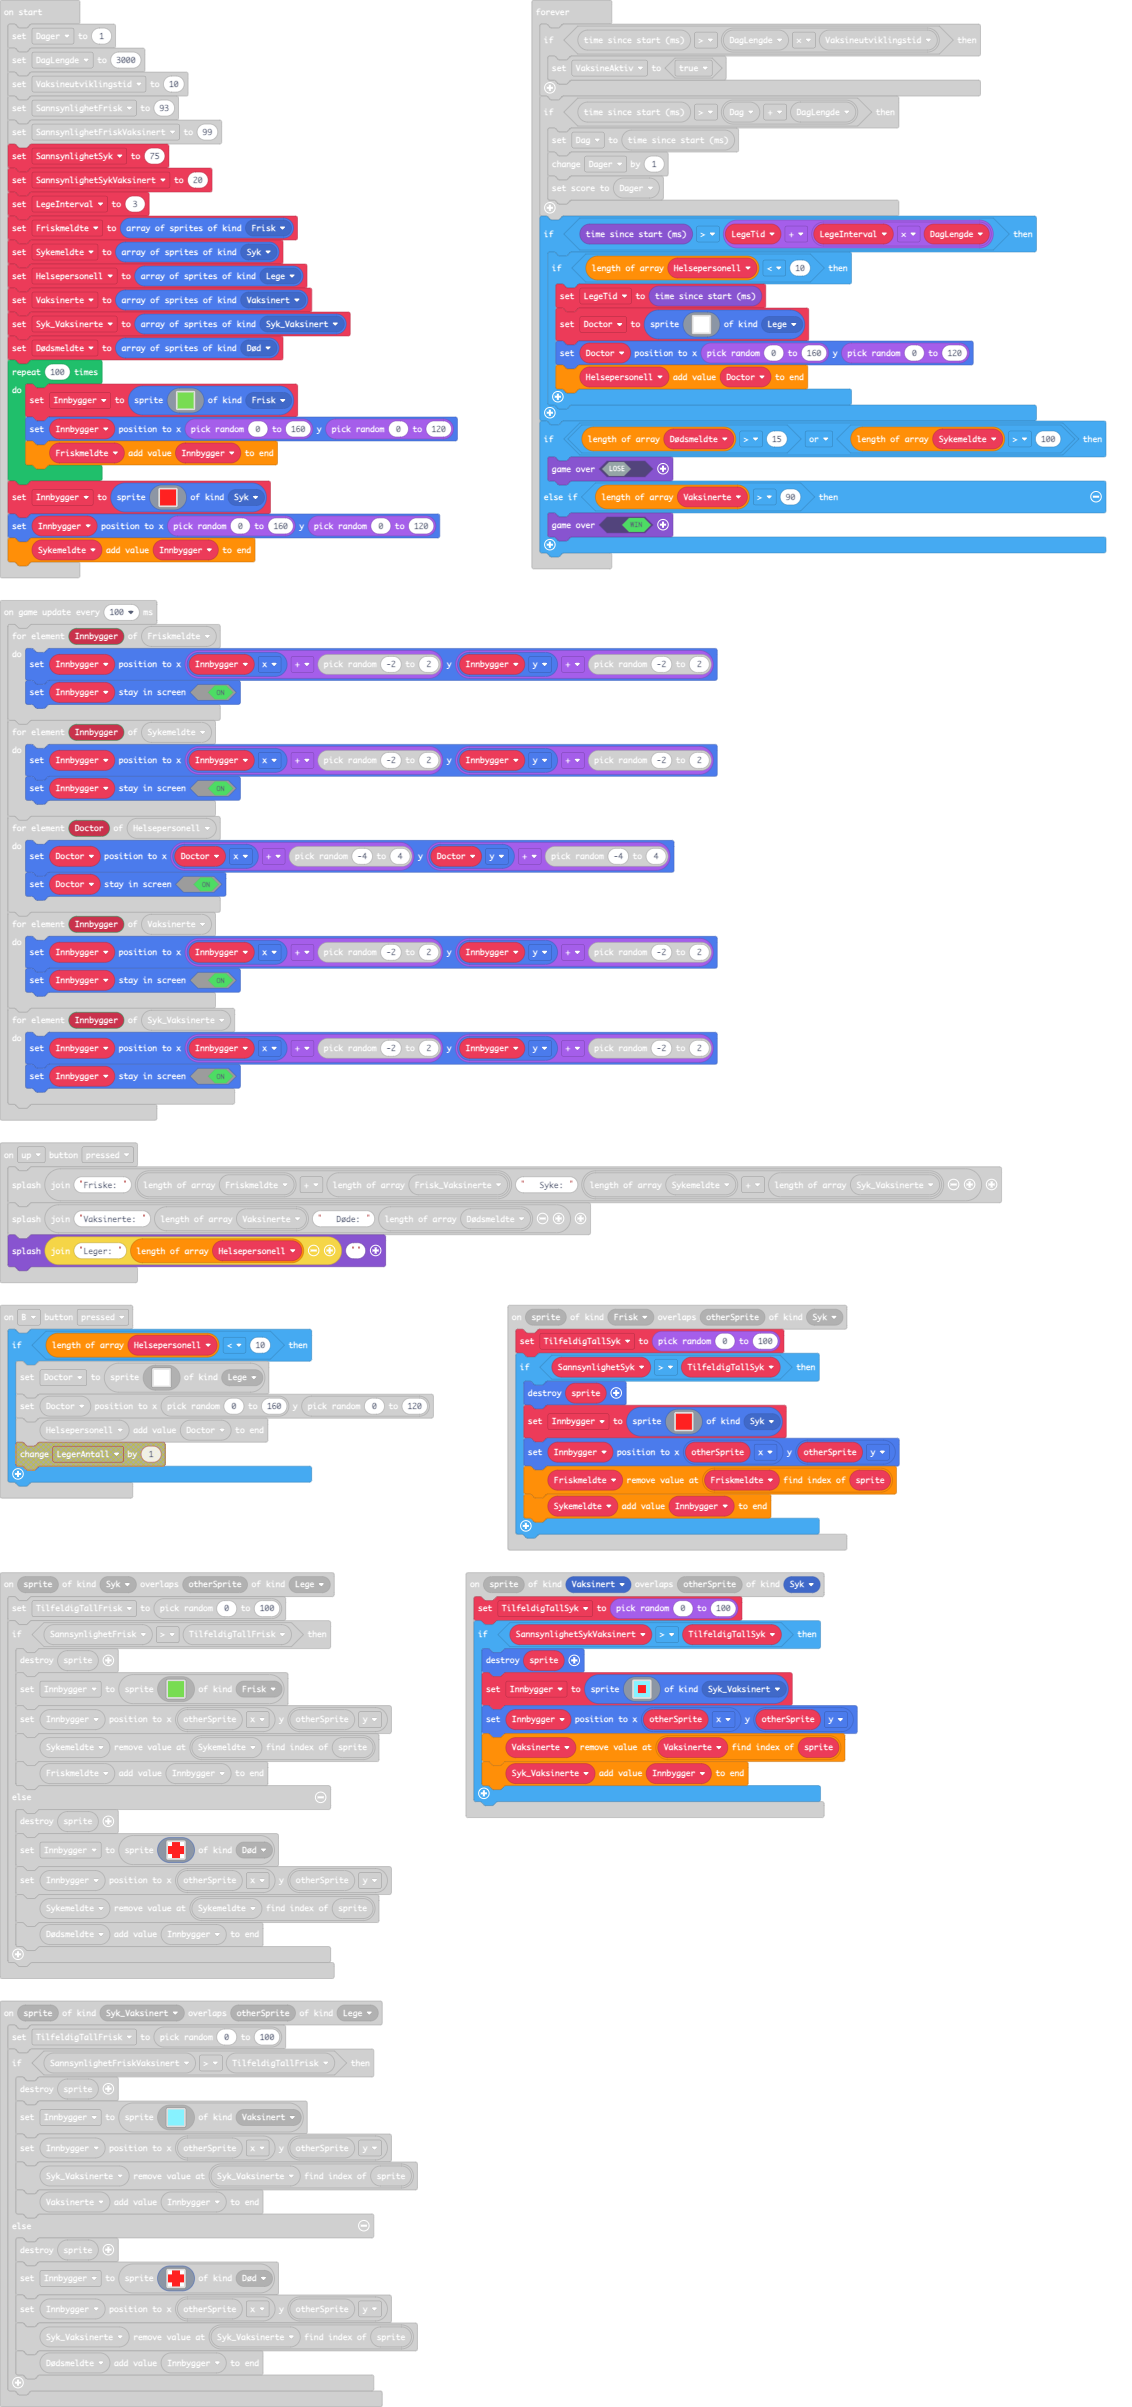
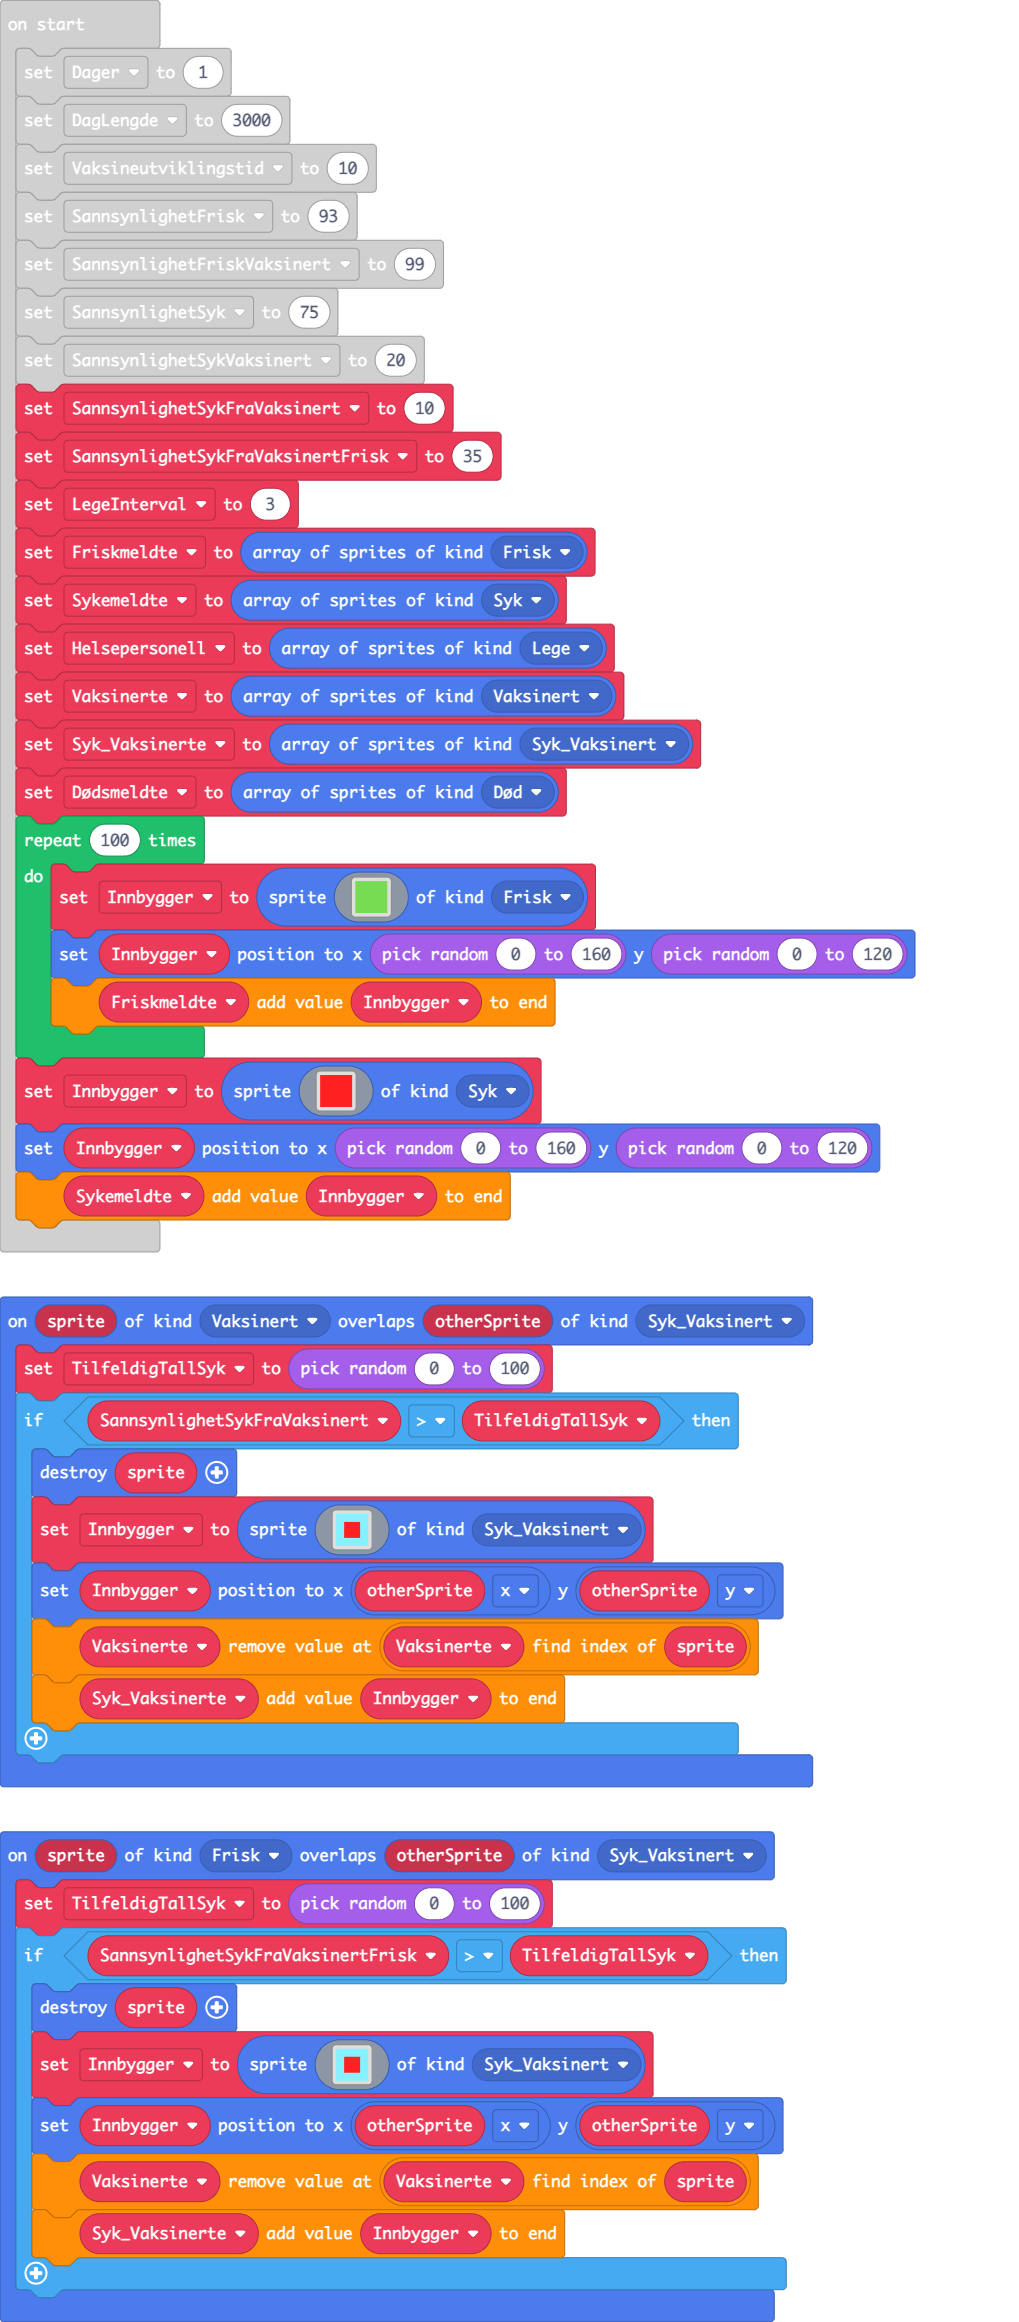
Update main.blocks, main.ts

diff --git a/main.ts b/main.ts
@@ -65,6 +65,21 @@ sprites.onOverlap(SpriteKind.Frisk, SpriteKind.Lege, function (sprite, otherSpri
         Vaksinerte.push(Innbygger)
     }
 })
+sprites.onOverlap(SpriteKind.Vaksinert, SpriteKind.Syk_Vaksinert, function (sprite, otherSprite) {
+    TilfeldigTallSyk = randint(0, 100)
+    if (SannsynlighetSykFraVaksinert > TilfeldigTallSyk) {
+        sprite.destroy()
+        Innbygger = sprites.create(img`
+            9 9 9 9 
+            9 2 2 9 
+            9 2 2 9 
+            9 9 9 9 
+            `, SpriteKind.Syk_Vaksinert)
+        Innbygger.setPosition(otherSprite.x, otherSprite.y)
+        Vaksinerte.removeAt(Vaksinerte.indexOf(sprite))
+        Syk_Vaksinerte.push(Innbygger)
+    }
+})
 sprites.onOverlap(SpriteKind.Vaksinert, SpriteKind.Syk, function (sprite, otherSprite) {
     TilfeldigTallSyk = randint(0, 100)
     if (SannsynlighetSykVaksinert > TilfeldigTallSyk) {
@@ -106,6 +121,21 @@ sprites.onOverlap(SpriteKind.Syk, SpriteKind.Lege, function (sprite, otherSprite
         Dødsmeldte.push(Innbygger)
     }
 })
+sprites.onOverlap(SpriteKind.Frisk, SpriteKind.Syk_Vaksinert, function (sprite, otherSprite) {
+    TilfeldigTallSyk = randint(0, 100)
+    if (SannsynlighetSykFraVaksinertFrisk > TilfeldigTallSyk) {
+        sprite.destroy()
+        Innbygger = sprites.create(img`
+            9 9 9 9 
+            9 2 2 9 
+            9 2 2 9 
+            9 9 9 9 
+            `, SpriteKind.Syk_Vaksinert)
+        Innbygger.setPosition(otherSprite.x, otherSprite.y)
+        Vaksinerte.removeAt(Vaksinerte.indexOf(sprite))
+        Syk_Vaksinerte.push(Innbygger)
+    }
+})
 sprites.onOverlap(SpriteKind.Syk_Vaksinert, SpriteKind.Lege, function (sprite, otherSprite) {
     TilfeldigTallFrisk = randint(0, 100)
     if (SannsynlighetFriskVaksinert > TilfeldigTallFrisk) {
@@ -145,6 +175,8 @@ let Vaksinerte: Sprite[] = []
 let Helsepersonell: Sprite[] = []
 let Sykemeldte: Sprite[] = []
 let Friskmeldte: Sprite[] = []
+let SannsynlighetSykFraVaksinertFrisk = 0
+let SannsynlighetSykFraVaksinert = 0
 let SannsynlighetSykVaksinert = 0
 let SannsynlighetSyk = 0
 let SannsynlighetFriskVaksinert = 0
@@ -156,6 +188,8 @@ SannsynlighetFrisk = 93
 SannsynlighetFriskVaksinert = 99
 SannsynlighetSyk = 75
 SannsynlighetSykVaksinert = 20
+SannsynlighetSykFraVaksinert = 10
+SannsynlighetSykFraVaksinertFrisk = 35
 let LegeInterval = 3
 Friskmeldte = sprites.allOfKind(SpriteKind.Frisk)
 Sykemeldte = sprites.allOfKind(SpriteKind.Syk)
